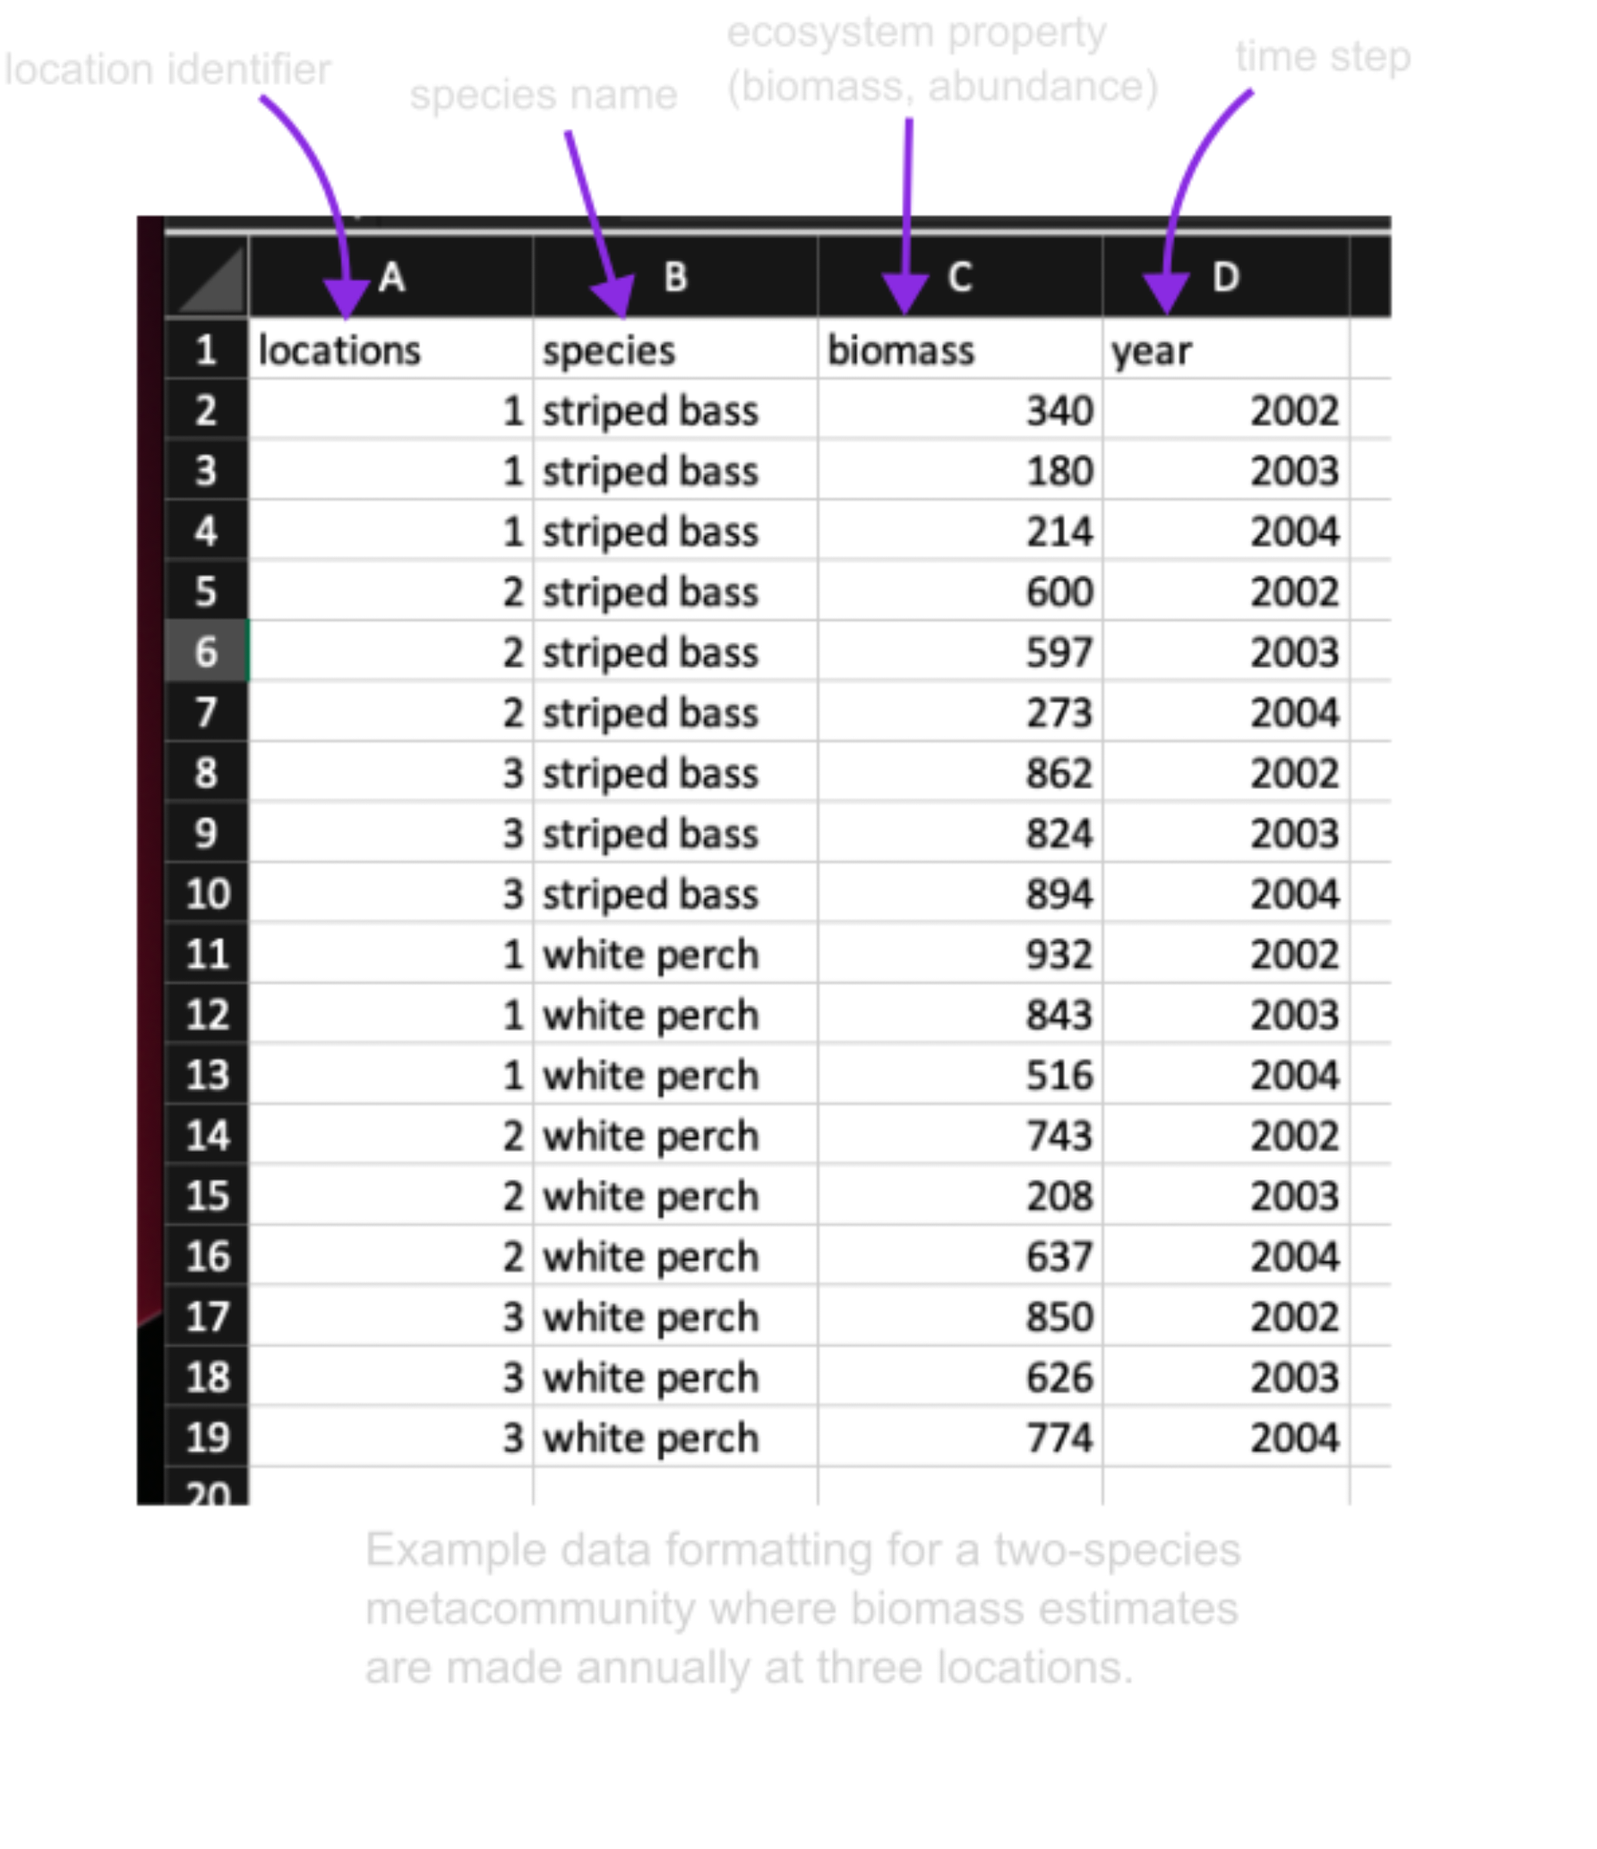
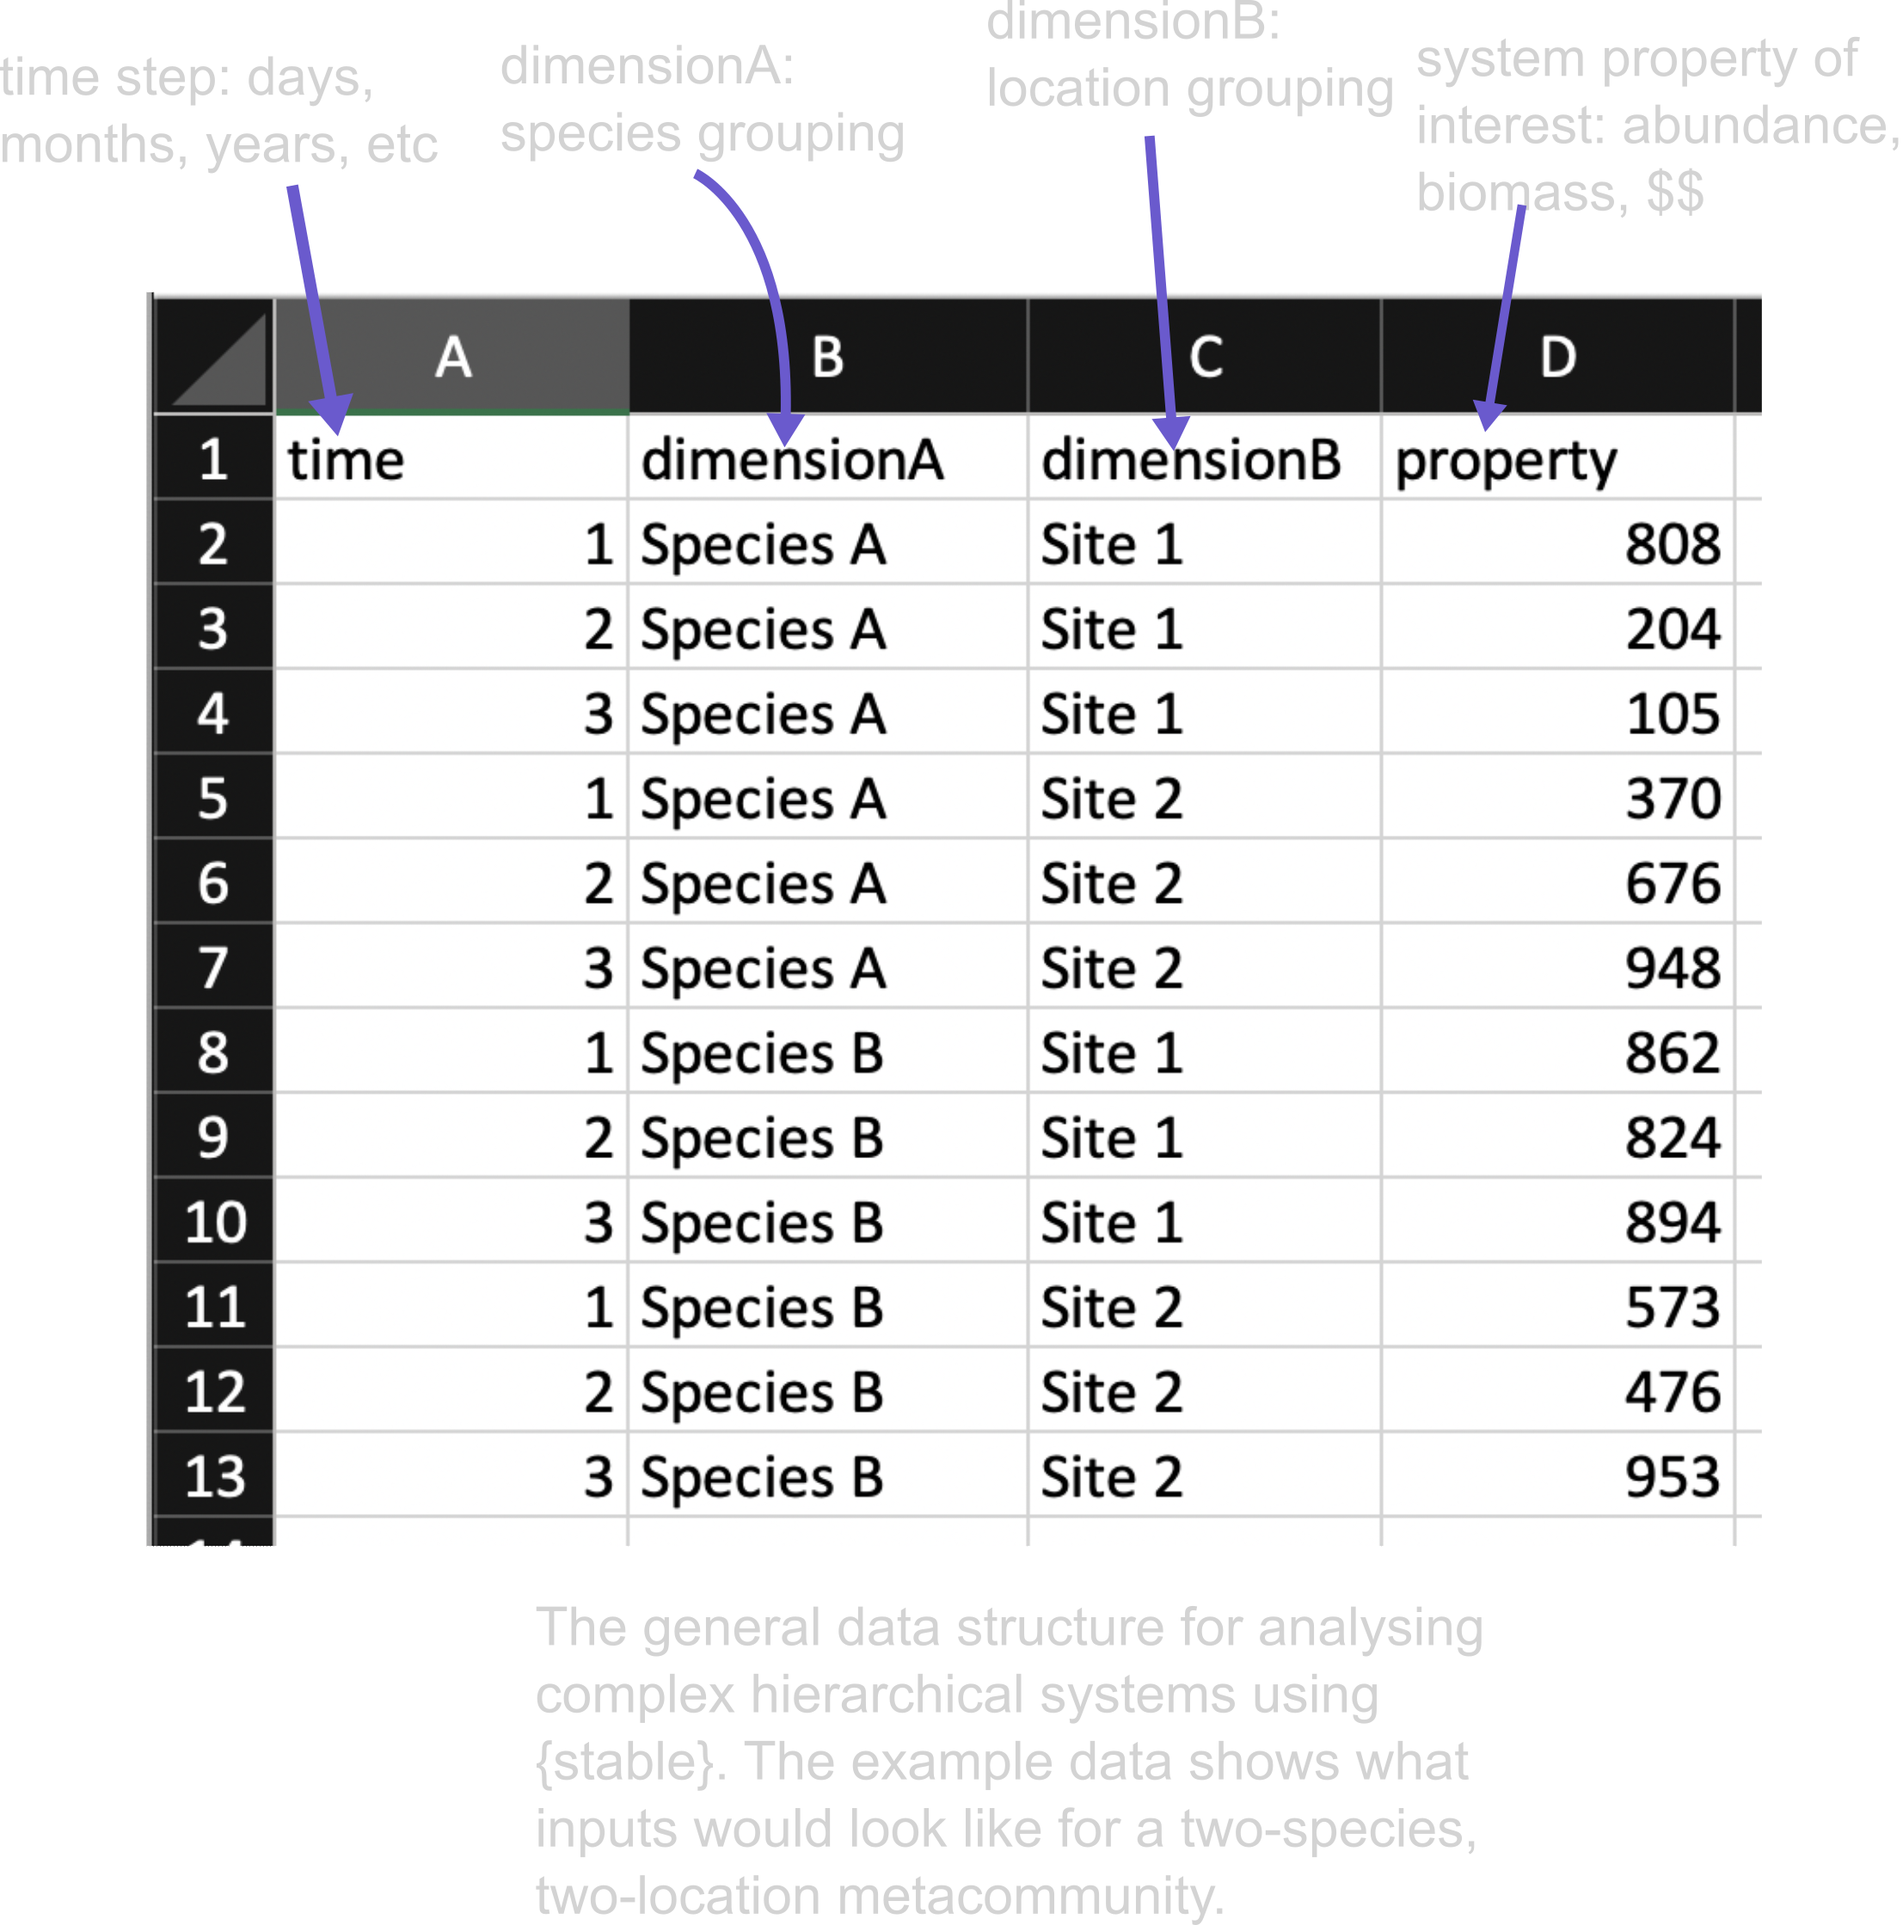
updates to text, modules

Changed region(s): [[0.0, 0.0, 0.9989, 0.9967], [0.6243, 0.9967, 0.6555, 1.0]]

diff --git a/inst/app/www/template.html b/inst/app/www/template.html
@@ -24,7 +24,7 @@ body, h1,h2,h3,h4,h5,h6 {font-family: "Montserrat", sans-serif}
 <nav class="w3-sidebar w3-bar-block w3-small w3-hide-small w3-center">
   
   <!-- Avatar image in top left corner -->
-  <img src="/w3images/avatar_smoke.jpg" style="width:100%">
+  <img src="/www/creepy_horse.png" style="width:80%">
   
   <a href="#" class="w3-bar-item w3-button w3-padding-large w3-black">
     <i class="fa fa-home w3-xxlarge"></i>
@@ -46,14 +46,14 @@ body, h1,h2,h3,h4,h5,h6 {font-family: "Montserrat", sans-serif}
     <p>IMPORT</p>
   </a>
   
-  <a href="#simulate" class="w3-bar-item w3-button w3-padding-large w3-hover-black">
-    <i class="fa fa-magic w3-xxlarge"></i>
-    <p>SIMULATE</p>
+  <a href="#summarise" class="w3-bar-item w3-button w3-padding-large w3-hover-black">
+    <i class="fa fa-line-chart w3-xxlarge"></i>
+    <p>SUMMARISE</p>
   </a>
   
-  <a href="#visualize" class="w3-bar-item w3-button w3-padding-large w3-hover-black">
+    <a href="#partition" class="w3-bar-item w3-button w3-padding-large w3-hover-black">
     <i class="fa fa-line-chart w3-xxlarge"></i>
-    <p>VISUALIZE</p>
+    <p>PARTITION</p>
   </a>
   
   <a href="#export" class="w3-bar-item w3-button w3-padding-large w3-hover-black">
@@ -69,8 +69,8 @@ body, h1,h2,h3,h4,h5,h6 {font-family: "Montserrat", sans-serif}
     <a href="#" class="w3-bar-item w3-button" style="width:25% !important">HOME</a>
     <a href="#usage" class="w3-bar-item w3-button" style="width:25% !important">USAGE</a>
     <a href="#import" class="w3-bar-item w3-button" style="width:25% !important">IMPORT</a>
-    <a href="#simulate" class="w3-bar-item w3-button" style="width:25% !important">SIMULATE</a>
-    <a href="#visualize" class="w3-bar-item w3-button" style="width:25% !important">VISUALIZE</a>
+    <a href="#summarise" class="w3-bar-item w3-button" style="width:25% !important">SUMMARISE</a>
+    <a href="#partition" class="w3-bar-item w3-button" style="width:25% !important">PARTITION</a>
     <a href="#export" class="w3-bar-item w3-button" style="width:25% !important">EXPORT</a>
   </div>
 </div>
@@ -81,7 +81,7 @@ body, h1,h2,h3,h4,h5,h6 {font-family: "Montserrat", sans-serif}
   <header class="w3-container w3-padding-32 w3-center w3-black" id="home">
     <h1 class="w3-jumbo"><span class="w3-hide-small">stable.</h1>
 
-    <p>Understanding synchrony-stability relationships in complex natural systems</p>
+    <p>Understanding synchrony-stability relationships in complex hierarchical systems</p>
 
     <div style = "margin-left:3em; margin-right:3em;margin-top:0em;margin-bottom:2em;">
       <img src="./www/sync_biomass.gif" style="width:80%; height: auto;">
@@ -95,14 +95,13 @@ body, h1,h2,h3,h4,h5,h6 {font-family: "Montserrat", sans-serif}
     <hr style="width:200px" class="w3-opacity">
     <h1 class="w3-xxlarge"><span class="w3-hide-small">Background and rationale</h1>
     
-    <p>Ecosystems, like portfolios of financial assets, are complex hierarchical systems whose components fluctuate through time. These components include <i>populations or communities across multiple spatial scales</i>. For instance, we could think about how populations fluctuate locally within a community or about how communities fluctuate regionally within a metacommunity. Alternatively, species' populations fluctuating across a region form a metapopulation, and multiple metapopulations within a region together form a metacommunity.
-    </p>
+    <p>The dynamics of complex hierarchical systems, such as ecosystems or financial portfolios, are stabilized by fluctuations among system components. The amount by which the system is stabilized is related to how <i>synchronous</i> lower-level components are. If these lower-level components (e.g., populations) are perfectly correlated through time, then the dynamics of the system in aggregate (e.g., the community) will equate to the summed dynamics of all species, and no stability will be imparted.
     
-    <p>As ecosystem components fluctuate, their dynamics tend to offset. This is called <i>asynchrony</i>, and results in the dynamics of higher-level ecosystem components being less variable over time than their component parts. For example, the temporal variability of metapopulation dynamics will be reduced relative to the dynamics of its component populations due to asynchrony. The reduction in variability at aggregate levels of complexity in an ecosystem is called the <i>portfolio effect (PE)</i>. The magnitude of the PE scales with synchrony (&phi;), a measure of how correlated component dynamics are through time, where PE = 1 - &phi;.</p> 
+    These systems are <i>nested hierarchical systems</i>, meaning that higher level components (e.g., communities) are composed of lower-level components (e.g., species). Unless the temporal dynamics of lower-level components are perfectly correlated, their dynamics will tend to offset and introduce asynchrony into the system.</p>
     
-    <p>In populations or communities subjected to resource harvesting, management strategies that conserve PEs are desirable as they function as "ecological insurance". In this sense, PEs may reduce variability in the extraction of resources through time. The purpose of this tool is to aid in the visualization and understanding of PEs as they manifest at different biological and organizational levels within ecosystems.</p>
-    </div>
+    <p>Asynchrony among lower-level components will result in lower temporal variability at higher levels within the system: a <i>portfolio effect (PE).</i> To provide an example in the context of natural systems, asynchrony in the dynamics of populations over space (where "dynamics" refers to population biomass through time) will reduce variability in the dynamics of the aggregated populations, or the metapopulation. This concept is known as spatial insurance, and the reduction in variability between levels the "spatial PE".</p>
     
+    <p>The goal of {stable} is to provide access to a framework, borrowed from community ecology (Wang et. al 2019; Lamy et al. 2018), that conceptualizes and quantifies how PEs emerge in complex hierarchical systems, regardless of domain.</p>
     
    <!-- Usage Section -->
    <div class="w3-content w3-justify w3-text-grey w3-padding-64" id="usage">
@@ -110,44 +109,45 @@ body, h1,h2,h3,h4,h5,h6 {font-family: "Montserrat", sans-serif}
     <hr style="width:200px" class="w3-opacity">
     <h1 class="w3-xxlarge"><span class="w3-hide-small">Usage</h1>
     
-    <p>The functionality of {stable} reflects the idea that synchrony-stability relationships are general properties of complex systems. Therefore, it does not require that the user have data specific to ecosystem properites such as biomass or abundance. However, it is perhaps best suited to these types of data.</p>
+    <p>The functionality of {stable} reflects the idea that synchrony-stability relationships are general properties of complex hierarchical systems. Therefore, it does not require that the user have data specific to ecosystem properites such as biomass or abundance. However, the app is still in early stages of development and is best suited for these types of data.</p>
     
-    <p>Your data must be a <i>.csv file</i> with the following structure in order to use the app:
+    <p>The {stable} app determines the hierarchical structure of your data from the number of unique combinations between nested grouping variables, which are referred to as `dimensionA` and `dimensionB`. For example, if the column `dimensionA` contains multiple locations and `dimensionB` contains multiple species observed within locations, then {stable} will partition variability hierarchically into the average variability of biomass within unique combinations of `dimensionA` and `dimensionB` (populations), the average variability of total community biomass across `dimensionB` (locations), and the average variability of metapopulation biomass across `dimensionA` (species). In each case, variability is weighted by the contribution of biomass to the whole system (metacommunity) following Wang et al. 2019 and Lamy et al. 2020.</p></P>
+    
+    <p>You may instead choose to provide the app with non-spatial data representing something like a portfolio of managed resources or financial assets. In these cases, there is no second dimension to consider. When importing these types of data, simply include a column containing a single repeated grouping variable. Data must be in <i>.csv</i> format and adhere to the following structure:
     </p>
     
-    <img src="./www/data_formatting.png" style="width:50%; height: auto; align:center;">
+    <img src="./www/data_formatting.png" style="width:50%; display:block; margin-left:auto; margin-right:auto;">
     
-
+    <p>Once your data are imported, enter the column names that correspond to the two grouping dimensions, system property of interest, and time variable.</p>
     
-    <p>Once your data are properly formatted, use the import tool below to bring your data into the app. You will then be asked to associate the column names in your data to the correct variables.</p>
     </div>
     <!-- Data import section -->
     <div class="w3-content w3-justify w3-text-grey w3-padding-64" id="import">
       <h2 class="w3-text-light-grey"></h2>
       <hr style="width:200px" class="w3-opacity">
       <h1 class="w3-xxlarge"><span class="w3-hide-small">Import</h1>
-    </div>
+   
 
-        {{first}}
-
-    
-    <!-- Data simulation section -->
-    <div class="w3-content w3-justify w3-text-grey w3-padding-64" id="simulate`">
-      <h2 class="w3-text-light-grey"></h2>
-      <hr style="width:200px" class="w3-opacity">
-      <h1 class="w3-xxlarge"><span class="w3-hide-small">Simulate</h1>
+      {{first}}
       
-      In progress...
-
-    </div>
-    
+     </div>
     <!-- Visualization section -->    
-    <div class="w3-content w3-justify w3-text-grey w3-padding-64" id="visualize">
+    <div class="w3-content w3-justify w3-text-grey w3-padding-64" id="summarise">
       <h2 class="w3-text-light-grey"></h2>
       <hr style="width:200px" class="w3-opacity">
-      <h1 class="w3-xxlarge"><span class="w3-hide-small">Visualize</h1>
+      <h1 class="w3-xxlarge"><span class="w3-hide-small">Summarise</h1>
       
       {{second}}
+
+    </div>
+    
+        <!-- Variability partitioning section -->
+    <div class="w3-content w3-justify w3-text-grey w3-padding-64" id="partition">
+      <h2 class="w3-text-light-grey"></h2>
+      <hr style="width:200px" class="w3-opacity">
+      <h1 class="w3-xxlarge"><span class="w3-hide-small">Partition</h1>
+      
+      {{third}}
 
     </div>
     
